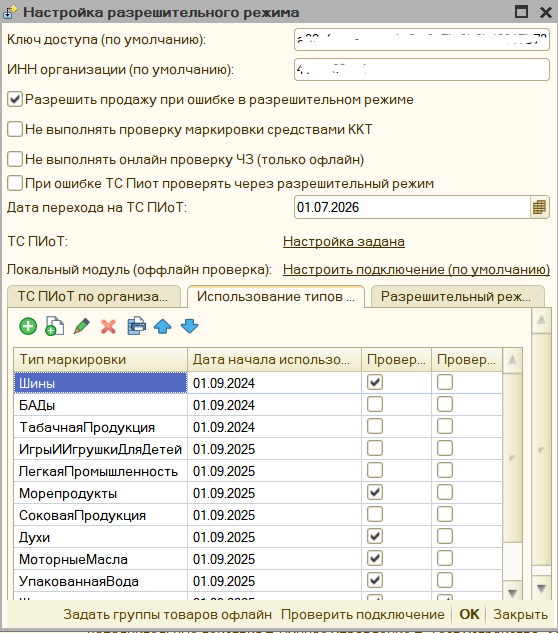
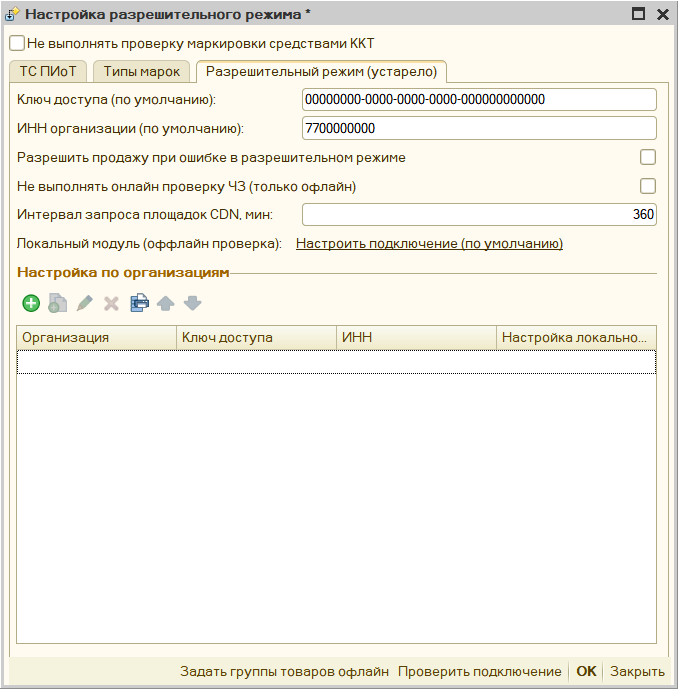
4.18

diff --git a/docs/ts_piot.md b/docs/ts_piot.md
@@ -2,11 +2,11 @@
 
 ## Требования перед началом настройки {#requirements}
 
-Для этой инструкции нужна обработка **ККТ-ОНЛАЙН версии 4.17 или выше**. Установку выполняйте на кассовом компьютере с Windows. Основной сценарий: обработка 1С, драйвер ККТ и ЕСМ работают на одном компьютере, к которому подключена одна касса.
+Настройки и скриншоты в этой главе соответствуют **ККТ-ОНЛАЙН 4.18**. В этой версии доступны API V1, V2 и V3 ТС ПИоТ; для выбора V2/V3 обновите обработку до 4.18. Поддержка V1 сохранена. Установку выполняйте на кассовом компьютере с Windows. Основной сценарий: обработка 1С, драйвер ККТ и ЕСМ работают на одном компьютере, к которому подключена одна касса.
 
 | Что проверить | Требование |
 | --- | --- |
-| Обработка | ККТ-ОНЛАЙН 4.17 или выше |
+| Обработка | ККТ-ОНЛАЙН 4.18 для настроек, показанных в этой главе |
 | Касса | Модель из поддерживаемого семейства: АТОЛ, POScenter, ШТРИХ с соответствующей веткой прошивки или Дримкас Вики Принт. Уточнения по моделям приведены ниже |
 | Регистрация ККТ | ФФД 1.2; включён признак «Торговля маркированными товарами» |
 | Прошивка и драйвер | Соответствуют выбранной ветке в таблице ниже; обычный драйвер без поддержки ЕСМ не подходит |
@@ -239,31 +239,37 @@
 
 ### Подключение ТС ПИоТ для проверки марки
 
-1. Откройте «Параметры» → «Маркировка» → «Разрешительный режим».
-2. Проверьте поле **«Дата перехода на ТС ПИоТ»**. Оно определяет, с какой даты обработка использует этот маршрут. Укажите дату запланированного перехода после подготовки ЕСМ.
-3. В строке «ТС ПИоТ» нажмите **«Настроить подключение»**.
-4. В поле **«Адрес подключения»** введите базовый адрес сервиса. Для ЕСМ на том же компьютере: `https://localhost:51401`. Путь API к адресу не дописывайте.
-5. Нажмите **«Заполнить настройки»**. Обработка получает сведения зарегистрированного экземпляра: номер ФН, идентификатор экземпляра, ИНН, заводской номер ККТ и таймаут.
-6. Сверьте номер ФН, ИНН и заводской номер с выбранной кассой. Полученные сведения используются для настройки подключения; исправляйте неверную регистрацию или адрес сервиса, а не подменяйте реквизиты другой кассы.
-7. Нажмите **«Проверить подключение»**. Эта команда проверяет получение информации от сервиса. Она не проверяет код маркировки и не печатает чек.
-8. Закройте форму кнопкой «ОК», сохраните настройки разрешительного режима и затем параметры обработки.
-9. Проверьте выбранные типы маркировки и даты начала проверок для используемых товарных групп.
+1. Откройте «Параметры» → «Маркировка» → **«Разрешительный режим \ ТС Пиот»** и выберите вкладку **«ТС ПИоТ»**.
+2. Проверьте **«Дату перехода на ТС ПИоТ»**: с этой даты обработка использует данный маршрут. Укажите дату запланированного перехода после подготовки ЕСМ.
+3. В строке «ТС ПИоТ» нажмите **«Настроить подключение»**; если подключение уже заполнено, ссылка называется **«Настройка задана»**.
+4. В поле **«Адрес подключения»** введите базовый адрес своего сервиса, например `https://localhost:51401`. Путь `/api/v1`, `/api/v2` или `/api/v3` к адресу не дописывайте.
+5. В поле **«Версия API ТС ПИоТ»** выберите `v1`, `v2` или `v3` в соответствии с установленным ЕСМ. Ранее сохранённые настройки без указания версии продолжают использовать V1. Автоматического переключения между версиями нет.
+6. Задайте **«Таймаут HTTP, сек.»** — время ожидания HTTP-запроса, от 1 до 999 секунд; по умолчанию 60. Для V3 проверьте **«Часовую зону (только v3)»**: можно оставить «Часовая зона ОС ТС ПИоТ» или выбрать зону из списка с указанием UTC. Для V1 и V2 этот параметр не используется.
+7. Нажмите **«Заполнить настройки»**. Обработка получает номер ФН, идентификатор экземпляра, ИНН и заводской номер ККТ. Сверьте их с выбранной кассой. Команда не перезаписывает установленный таймаут HTTP.
+8. Нажмите **«Проверить подключение»**. Эта команда проверяет получение информации от сервиса; проверка кода маркировки и печать чека выполняются отдельно.
+9. Закройте форму кнопкой «ОК». На вкладке «ТС ПИоТ» проверьте число повторных проверок, а на вкладке **«Типы марок»** — товарные группы, даты начала использования и дополнительные проверки. Сохраните настройки кнопкой «ОК», затем сохраните параметры обработки.
 
-![Настройка ТС ПИоТ в обработке](media/edit_tspiot.png)
+![Настройка подключения ТС ПИоТ: выбор версии API, таймаут HTTP и часовая зона](media/edit_tspiot.png)
 
-На скриншоте показаны адрес эмулятора и тестовые реквизиты. Для рабочей кассы укажите адрес своего ЕСМ и сверьте реквизиты, полученные от него.
+На скриншоте показан учебный пример подключения. Для рабочей кассы укажите адрес своего ЕСМ и сверьте реквизиты, полученные от него.
 
-Поле «Таймаут» заполняется из сведений сервиса. Не трактуйте его как время ожидания любого HTTP-запроса: транспортное ожидание и параметры проверки марки в обработке имеют разное назначение.
+### Повторные запросы {#retries}
+
+На вкладке **«ТС ПИоТ»** поле **«Число повторных проверок ТС ПИоТ»** задаёт количество повторов после первого запроса. По умолчанию это **2 повтора с интервалом 5 секунд**, то есть не более трёх запросов на проверяемую марку. Значение `0` отключает повторы; поддерживается от 0 до 5 повторов. Интервал пять секунд фиксирован и отдельной настройкой не задаётся.
+
+![Вкладка ТС ПИоТ: дата перехода, подключение и число повторов](media/marking_tspiot_tab.png)
+
+Повторы выполняются при отсутствии HTTP-ответа, HTTP 429 и серверных ошибках 5xx. Полученный отрицательный результат проверки товара и другие HTTP-статусы сами по себе не запускают повторы. Таймаут каждого запроса и паузы между повторами увеличивают общее время проверки. Если включён резервный переход к обычному разрешительному режиму, он применяется после исчерпания предусмотренных повторов при ошибке отправки.
 
 ### Несколько организаций
 
-Если в схеме распределения доступна организация, в форме есть вкладка **«ТС ПИоТ по организациям»**. Для каждой строки укажите «Организация» и «Настройка ТС ПИоТ».
+Если в схеме распределения доступна организация, на вкладке **«ТС ПИоТ»** отображается таблица настроек по организациям. Для каждой строки укажите «Организация» и «Настройка ТС ПИоТ». Версию API выбирайте в подключении соответствующей организации.
 
 Настройка выбранной организации заменяет общую настройку. Проверьте соответствие всей цепочки: организация документа, ИНН, ККТ, номер ФН и адрес её ЕСМ. Затем проверьте марку и чек отдельно для каждой организации. Общая настройка одной кассы не должна случайно использоваться для другой.
 
 ### Резервный переход к обычному разрешительному режиму
 
-Параметр «При ошибке ТС Пиот проверять через разрешительный режим» включает предусмотренный обработкой резервный маршрут. Для него обычный разрешительный режим должен быть настроен и доступен.
+Параметр «При ошибке ТС Пиот проверять через разрешительный режим» на вкладке **«ТС ПИоТ»** включает предусмотренный обработкой резервный маршрут. Для него обычный разрешительный режим должен быть настроен и доступен.
 
 Переход зависит от ответа ТС ПИоТ и состояния результата проверки. Этот флаг не отменяет запрет продажи и не гарантирует повторную проверку каждой марки с уже полученным окончательным статусом. Доступность прежнего протокола и сроки перехода приведены в [разделе о технической возможности обычного разрешительного режима](marking.md#техническая-возможность-использовать-обычный-разрешительный-режим-до-октября-2026).
 
@@ -316,7 +322,7 @@
 
 Обработка не формирует `X-Fn-Sid` самостоятельно: сессию обеспечивает ЕСМ. Не подставляйте произвольный идентификатор и не меняйте отрицательный результат проверки на положительный.
 
-В обработке предусмотрен один автоматический повтор через одну секунду при установленном признаке ошибки отправки. Это не универсальный повтор для каждого HTTP-кода или отрицательного результата проверки товара.
+При сбоях связи, HTTP 429 и ответах 5xx обработка выполняет [настроенное число повторов](#retries). По умолчанию — два повтора через пять секунд. Отрицательный результат проверки товара не устраняется увеличением числа повторов.
 
 ### Проверка портов в PowerShell {#диагностика-портов}
 
@@ -378,7 +384,7 @@ netsh int ipv4 show excludedportrange protocol=tcp
 
 В поддерживаемой схеме каждый экземпляр ЕСМ получает собственные внутренний порт и порт API. У АТОЛ несколько ККТ могут использовать одну службу gRPC с общим портом 4042. Это отличается от конфликта, при котором независимые драйверы разных производителей пытаются занять один адрес и порт.
 
-Адреса подключения берите из фактически созданных экземпляров ЕСМ. Перед настройкой нескольких ККТ проверьте совместимость установленного ЕСМ с интерфейсом обработки: ККТ-ОНЛАЙН использует API v1, а примеры многокассовой схемы ЕСП содержат API v3. После настройки проверьте каждую организацию, каждую ККТ и переключение между ними. Порядок создания и регистрации экземпляров приведён в инструкции ЕСП.
+Адреса подключения берите из фактически созданных экземпляров ЕСМ. Перед настройкой нескольких ККТ выберите для каждого подключения поддерживаемую его экземпляром ЕСМ версию API: в ККТ-ОНЛАЙН 4.18 доступны V1, V2 и V3. После настройки проверьте каждую организацию, каждую ККТ и переключение между ними. Порядок создания и регистрации экземпляров приведён в инструкции ЕСП.
 
 При работе через RDP адрес `localhost` означает компьютер, на котором выполняется соответствующее обращение. Если 1С работает на сервере, он не обозначает автоматически компьютер кассира. Перед настройкой определите, где выполняются запросы обработки, где запущены драйвер и ЕСМ и к какому компьютеру подключена ККТ. Затем проверьте доступность сервиса именно из рабочего сеанса 1С.
 
@@ -388,17 +394,18 @@ netsh int ipv4 show excludedportrange protocol=tcp
 
 Этот блок нужен для чтения журналов. В форме подключения указывают только базовый адрес, например `https://localhost:51401`.
 
-| Операция | Что делает обработка |
-| --- | --- |
-| Получение сведений и проверка подключения | `POST /api/v1/info` |
-| Проверка кода маркировки | `POST /api/v1/codes/check` |
-| Формирование фискального чека | Передаёт XML через метод компоненты оборудования `СформироватьЧек` |
+| Операция | V1 | V2 | V3 |
+| --- | --- | --- | --- |
+| Получение сведений и проверка подключения | `POST /api/v1/info` | `GET /api/v2/info` | `GET /api/v3/info` |
+| Проверка кода маркировки | `POST /api/v1/codes/check` | `POST /api/v2/codes/check` | `POST /api/v3/codes/check` |
 
-Из ответа сервиса поле «Таймаут» заполняется значением `codesCheckTimeout`. Оно не является общим транспортным таймаутом HTTP. Успешный ответ `/info` не заменяет проверку `/codes/check` и контроль формирования чека.
+Формирование фискального чека по-прежнему передаётся через метод компоненты оборудования `СформироватьЧек`.
+
+В версии 4.18 **«Таймаут HTTP, сек.»** задаёт транспортное ожидание. Значение `codesCheckTimeout` из ответа ЕСМ его не заменяет. Успешный ответ `/info` не заменяет проверку `/codes/check` и контроль формирования чека.
 
 ## Источники и дата проверки {#sources}
 
-Сведения сверены **25.09.2026**. Совместимость ККТ-ОНЛАЙН 4.17+ с четырьмя описанными семействами подтверждена автором разработки. Эта глава подготовлена по документации и настройкам обработки; аппаратные испытания четырёх семейств при её подготовке не выполнялись.
+Интерфейс и описание работы обработки обновлены **08.10.2026** по релизу **4.18**. Сведения из внешних инструкций производителей сверены **25.09.2026**. Совместимость ККТ-ОНЛАЙН 4.17+ с четырьмя описанными семействами подтверждена автором разработки. Эта глава подготовлена по документации и настройкам обработки; аппаратные испытания четырёх семейств при её подготовке не выполнялись.
 
 - [Раздел инструкций личного кабинета АО «ЕСП»][esp-instructions].
 - [ЕСП: установка и настройка АТОЛ, Windows, v2.1 от 27.07.2026][atol-guide].

diff --git a/docs/parameters_description.md b/docs/parameters_description.md
@@ -210,7 +210,9 @@ hide:
 
 ## Маркировка ##
 
-![Маркировка](media/fa544b670cbe2b71f43eac5247662ea1.png)
+![Маркировка: параметры версии 4.18](media/fa544b670cbe2b71f43eac5247662ea1.png)
+
+Снимки этого раздела получены в версии 4.18 на учебной базе. Значения на них служат примером заполнения.
 
 **«Использовать маркировку лекарств»** - специальная настройка для использования продажи лекарств. При ее включении становится доступно использование льгот и рецептов при продаже лекарств, дробная продажа упаковки лекарств, а также при
 этом будут автоматически заполняться теги 1084, 1085, 1191.
@@ -219,9 +221,9 @@ hide:
 
 **«Типы маркировок»** - позволяет настроить условие, когда и какой тип маркировки необходимо заполнять в чеке. Используется для маркировочной продукции: Табак, алкоголь, лекарства и т.д. См. [Настройка типа маркировки](marking.md#настройка-типов-маркировки)
 
-**«Разрешительный режим»** открывает настройки проверки маркированного товара. Для работы через ЕСМ перейдите к [настройке ТС ПИоТ](ts_piot.md#setup): там описаны адрес подключения, дата перехода, сведения о кассе и настройки по организациям. Прямой обмен с Честным знаком описан в разделе [«Разрешительный режим продажи маркировки»](marking.md#разрешительный-режим-продажи-маркировки).
+**«Разрешительный режим \ ТС Пиот»** открывает форму настройки проверки маркированного товара. Начиная с версии 4.18 параметры распределены по трём вкладкам, описанным [ниже](#marking-settings-tabs).
 
-**«Интервал запроса площадок CDN, мин.»** - период, в течение которого список запрошенных площадок CDN для проверки маркировки считается актуальным. Запрос площадок происходит в момент проверки чеков, поэтому первый чек в таком интервале может пробиваться с задержкой.
+**«Интервал запроса площадок CDN, мин.»** в версии 4.18 перенесён с основной страницы «Маркировка» на вкладку **«Разрешительный режим (устарело)»** внутри формы «Разрешительный режим \ ТС Пиот».
 
 **«Задержка на отправку проверки маркировки на ККТ, сек»** - время ожидания перед отправкой запроса на проверку маркировки, при использовании разрешительного режима, на случай, если ККТ зависает при отправке большого количества запросов.
 
@@ -233,11 +235,41 @@ hide:
 
 **«Ограничение доступности отображения маркировки»** - используется для удобства - ограничивает доступность списка используемой маркировки, ограничение коснется списка в форме настройки типов маркировки, в форме настройки разрешительного режима, а также в форме проверки печати.
 
-**«Закрывать форму маркировки при успешной проверке»** - позволяет указать, нужно ли автоматически закрывать форму проверки маркировки, часто необходимо для автоматизации печати множества чеков, чтобы не нажимать "ок" вручную.
+**«Автономный режим проверки»** — при ошибке проверки маркировки операция отменяется без запроса решения пользователя. Обработка не предлагает разрешить продолжение или игнорировать ошибку. Время закрытия окна определяется следующей настройкой; подробности — в [описании автономного режима](marking.md#autonomous-marking).
+
+**«Закрывать форму маркировки при успешной проверке»** задаёт один из вариантов: «Не закрывать», «Закрывать через 3 сек.», «Закрывать через 5 сек.» или «Закрывать сразу». В версии 4.18 это время также используется при отмене операции из-за ошибки в автономном режиме. При варианте «Не закрывать» операция уже отменена, но окно остаётся открытым до закрытия пользователем.
 
 **«Схема определения элементов упаковки»** - позволяет указать способ определения составляющих упаковки, См. [Частичная продажа упаковок маркированного товара](marking.md#частичная-продажа-упаковок-маркированного-товара)
 
 **«Ждать ответа ОИСМ при проверке маркировки»** при включении явно запрашивает ожидание ответа через ККТ для ФФД 1.2. Снятый флаг сам по себе не отключает ожидание: обработка обычно не передаёт этот признак, и поведение зависит от компоненты. При успешной проверке разрешительного режима и включённом параметре «Не выполнять проверку маркировки средствами ККТ» обработка явно передаёт запрос без ожидания. Отсутствие ожидания не подтверждает успешную онлайн-проверку; см. [значение результатов проверки](marking.md#порядок-проверки-маркированного-товара).
+
+### Вкладки настройки маркировки в версии 4.18 {#marking-settings-tabs}
+
+Откройте «Маркировка» → **«Разрешительный режим \ ТС Пиот»**. Общий флаг **«Не выполнять проверку маркировки средствами ККТ»** расположен над вкладками. Настройки сохраняются кнопкой «ОК» всей формы.
+
+#### ТС ПИоТ
+
+![Вкладка ТС ПИоТ](media/marking_tspiot_tab.png)
+
+Здесь указывают **дату перехода**, открывают **настройку подключения**, задают **число повторных проверок ТС ПИоТ** и при необходимости включают **«При ошибке ТС Пиот проверять через разрешительный режим»**. Если схема распределения содержит организацию, здесь же доступна таблица отдельных подключений по организациям.
+
+В настройке подключения выбирают **API V1, V2 или V3**, адрес ЕСМ, **таймаут HTTP** и **часовую зону для V3**. Поддержка V1 сохранена. По умолчанию после первого неудачного запроса выполняются **два повтора через пять секунд**; `0` отключает повторы, поддерживается от 0 до 5. Пошаговое заполнение — в [главе о ТС ПИоТ](ts_piot.md#setup).
+
+#### Типы марок
+
+![Вкладка Типы марок](media/marking_types_tab.png)
+
+Таблица определяет, какие **типы маркировки** проверять и с какой **даты начала использования**. Для строки можно включить **«Проверять владельца»** и **«Проверять срок годности»**. Добавьте нужные товарные группы и проверьте даты перед началом работы.
+
+Эта вкладка задаёт правила проверки. Отдельная ссылка **«Типы маркировок»** на основной странице «Маркировка» по-прежнему используется для [сопоставления товаров с типами маркировки](marking.md#настройка-типов-маркировки).
+
+#### Разрешительный режим (устарело)
+
+![Вкладка Разрешительный режим (устарело)](media/access_mode.png)
+
+Здесь собраны параметры прежнего прямого обмена: **ключ доступа**, **ИНН организации**, подключение **локального модуля**, параметры онлайн-проверки и разрешения продажи при ошибке разрешительного режима. Настройки по организациям доступны, когда организация предусмотрена схемой распределения. Порядок заполнения — в [разделе о прямом разрешительном режиме](marking.md#разрешительный-режим-продажи-маркировки).
+
+**«Интервал запроса площадок CDN, мин.»** задаёт срок актуальности списка площадок для прямой проверки. После истечения интервала список запрашивается снова, поэтому первая проверка может занять больше времени. Этот параметр не задаёт интервал повторных запросов ТС ПИоТ.
 
 ## Служебное ##
 

diff --git a/docs/marking.md b/docs/marking.md
@@ -71,7 +71,7 @@
 
 ## Разрешительный режим через ТС ПИоТ
 
-Настройка ЕСМ и обработки описана в отдельной главе основной инструкции: [«Настройка ТС ПИоТ»](ts_piot.md). Для этой инструкции требуется **ККТ-ОНЛАЙН 4.17 или выше**.
+Настройка ЕСМ и обработки описана в отдельной главе основной инструкции: [«Настройка ТС ПИоТ»](ts_piot.md). Интерфейс и настройки описаны для **ККТ-ОНЛАЙН 4.18**: доступны API V1, V2 и V3, настройка повторных запросов и новая форма с тремя вкладками.
 
 <a id="что-такое-тс-пиот-и-как-он-работает"></a>
 <a id="что-изменится-для-пользователя"></a>
@@ -139,9 +139,9 @@
 
 1. Откройте **параметры программы**.
 2. Перейдите в раздел **«Маркировка»**.
-3. Найдите параметр **«Разрешительный режим»**.
+3. Откройте **«Разрешительный режим \ ТС Пиот»**. Для прямого обмена выберите вкладку **«Разрешительный режим (устарело)»**. Подключение через ЕСМ находится на вкладке **«ТС ПИоТ»**, а товарные группы и даты начала проверок — на вкладке **«Типы марок»**. См. [описание всех трёх вкладок](parameters_description.md#marking-settings-tabs).
 
-![Настройка разрешительного режима](media/access_mode.png)
+![Вкладка Разрешительный режим (устарело), включая интервал запроса CDN](media/access_mode.png)
 
 ---
 
@@ -313,6 +313,21 @@ https://cdn\d{2}\.crpt\.ru
 
 > При успешном разрешительном режиме проверка через ККТ может выполняться без ожидания ответа ОИСМ. Поэтому обозначение `[M]` само по себе не описывает результат разрешительного режима. Проверяйте статус в форме и переданные реквизиты; [пояснение Честного знака](https://markirovka.ru/knowledge/tovarnye-gruppy/obschie-voprosy-gis/znachenie-m-v-fiskalnykh-dokumentakh-chekakh).
 
+## Автономный режим проверки маркировки {#autonomous-marking}
+
+В версии **4.18** форма проверки маркировки редактора товара поддерживает автономную отмену операции. Включите **«Параметры» → «Маркировка» → «Автономный режим проверки»**. При ошибке проверки операция отменяется без вопроса о продолжении или игнорировании ошибки; сообщение об отмене записывается в журнал. Это действует и при включённом разрешении продажи при ошибке разрешительного режима.
+
+Настройка **«Закрывать форму маркировки при успешной проверке»** определяет также время закрытия окна после автономной отмены:
+
+| Значение | Что происходит после ошибки в автономном режиме |
+| --- | --- |
+| Не закрывать | Операция отменяется, окно остаётся открытым до закрытия пользователем |
+| Закрывать через 3 сек. | Окно закрывается после отсчёта трёх секунд |
+| Закрывать через 5 сек. | Окно закрывается после отсчёта пяти секунд |
+| Закрывать сразу | Окно закрывается сразу после отмены |
+
+В режиме ожидания кнопка **«Отмена»** показывает оставшееся время. Чтобы обработка не ожидала закрытия окна пользователем, выберите автоматическое закрытие. Автономный режим не делает отрицательный результат проверки положительным и не заменяет настройку повторных запросов ТС ПИоТ.
+
 ## Настройка локального модуля для офлайн проверки
 
 Эти настройки относятся к прямому обмену обработки с локальным модулем Честного знака в обычном разрешительном режиме. Модуль используется, когда онлайн-проверка недоступна. При подключении через ТС ПИоТ настройте [офлайн-режим самого сервиса](ts_piot.md#offline).
@@ -376,7 +391,7 @@ https://cdn\d{2}\.crpt\.ru
 
 После настройки система проверяет маркировку в три этапа:
 
-1. Проверка доступности CDN-площадок. Срок актуальности списка задаётся параметром «Интервал запроса площадок CDN, мин.»; первый запрос после истечения интервала может занять больше времени.
+1. Проверка доступности CDN-площадок. Срок актуальности списка задаётся параметром «Интервал запроса площадок CDN, мин.» на вкладке **«Разрешительный режим (устарело)»**; первый запрос после истечения интервала может занять больше времени.
 2. Онлайн-проверка:
    - Если серверы доступны, проверка проходит в интернете.
    - Если серверы недоступны или истек таймаут, активируется офлайн режим.
